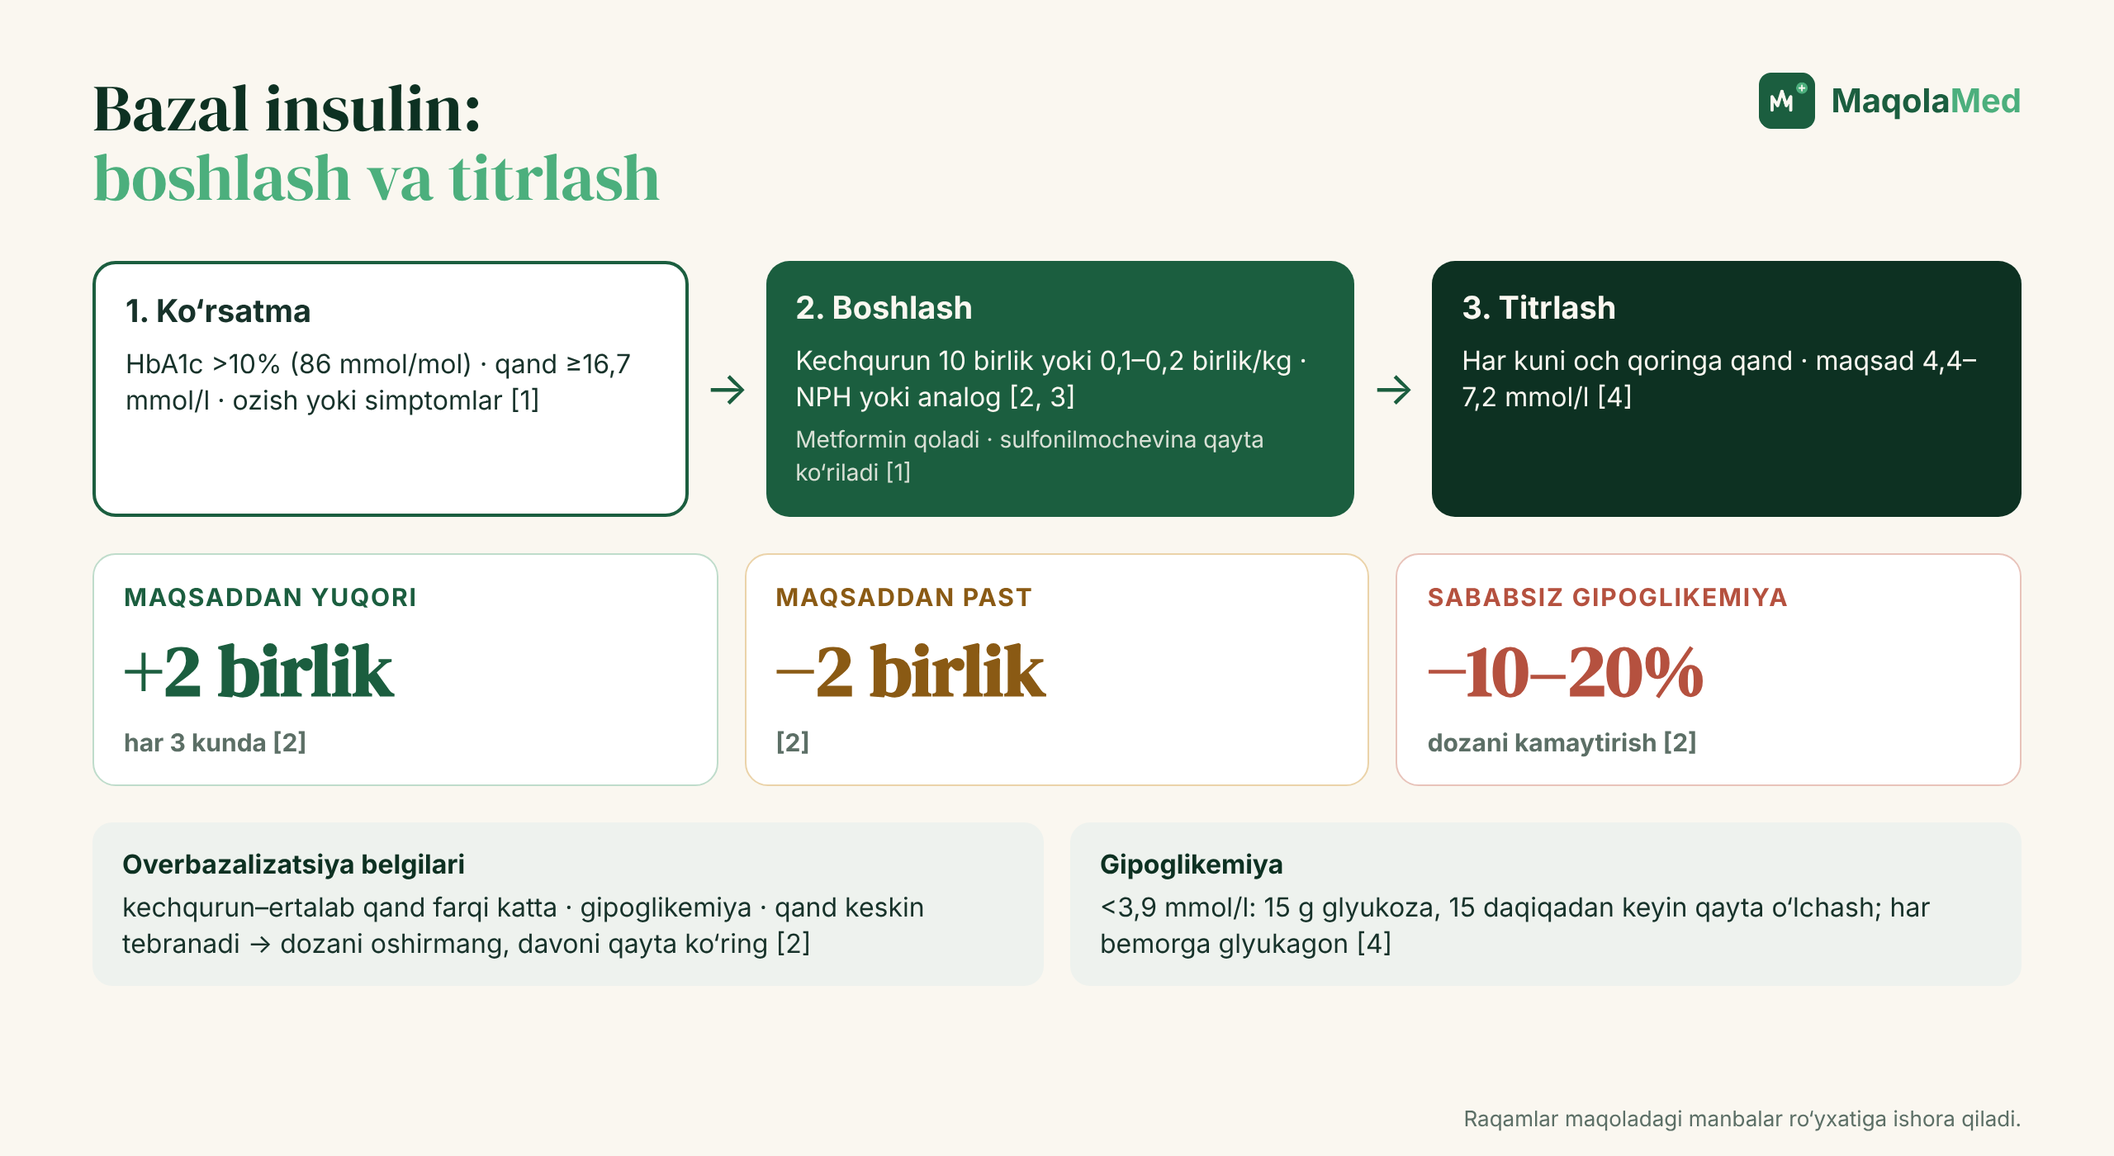
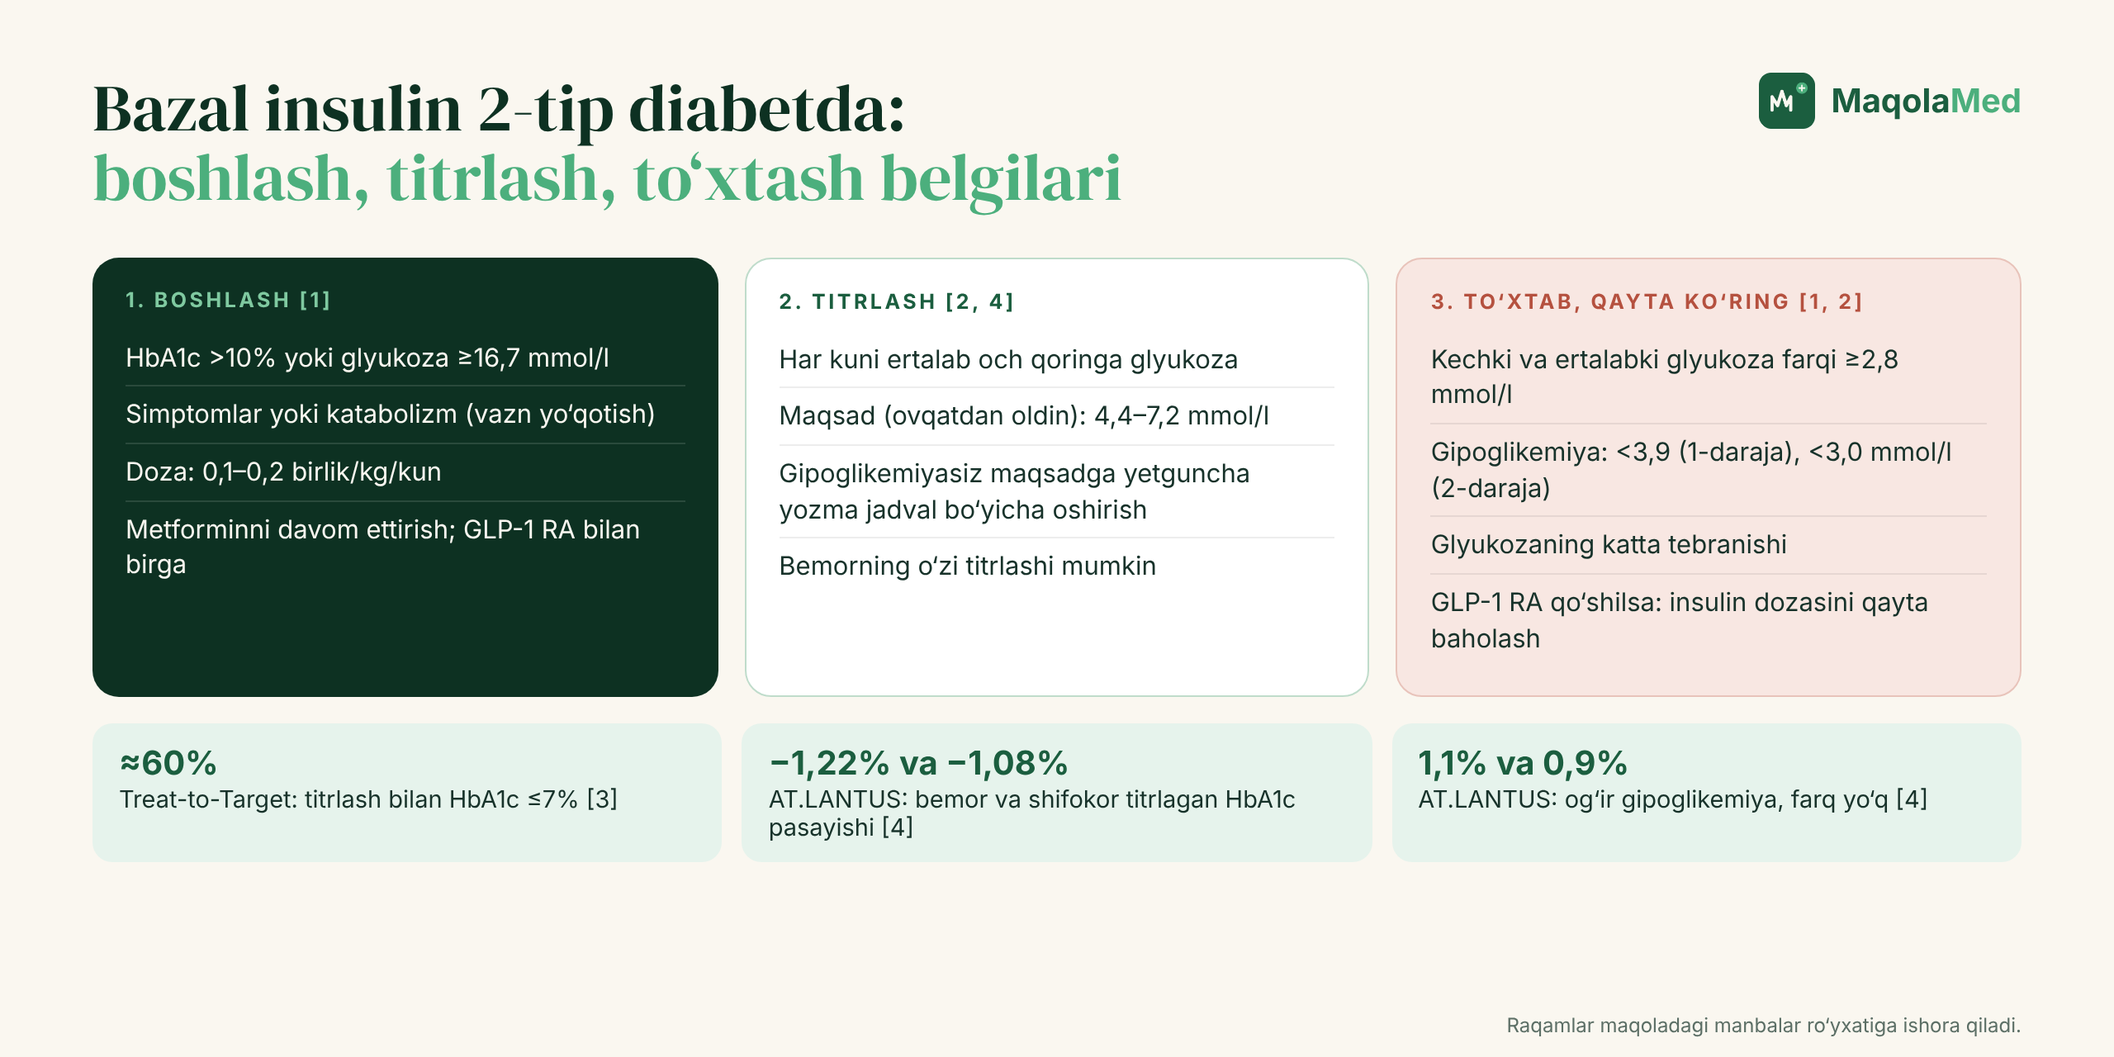
24-dekabr maqolasi qayta yozildi (v2, humanizer): bazal insulin — muqovalar, 1 rasm

diff --git a/_manba/2026-12-24/muqova-instagram-4x5.html b/_manba/2026-12-24/muqova-instagram-4x5.html
@@ -1,0 +1,87 @@
+<!doctype html>
+<html lang="uz">
+<head><base href="file:///home/claude/maqolamed-rasmlar/_shablon/">
+<meta charset="utf-8">
+<style>
+@font-face{font-family:"DM Serif Display";src:url("fonts/dm-serif-display-latin-400-normal.woff2") format("woff2");}
+@font-face{font-family:"DM Serif Display";src:url("fonts/dm-serif-display-latin-ext-400-normal.woff2") format("woff2");unicode-range:U+0100-024F,U+1E00-1EFF;}
+:root{
+  --emerald:#1B5E3F; --deep:#0D3122; --cream:#FAF7F0; --mint:#7FC9A0; --green:#4CAF7D;
+}
+*{margin:0;padding:0;box-sizing:border-box}
+html,body{width:1280px;height:720px;overflow:hidden;background:var(--deep)}
+.cover{position:relative;width:1280px;height:720px;overflow:hidden;font-family:"Inter",sans-serif;color:var(--cream);
+  background:
+    radial-gradient(900px 600px at 78% 40%, rgba(76,175,125,.22), transparent 60%),
+    radial-gradient(700px 500px at 0% 100%, rgba(13,49,34,.9), transparent 70%),
+    linear-gradient(135deg,#123F2C 0%, #1B5E3F 55%, #164D34 100%);}
+.grid{position:absolute;inset:0;background-image:
+    linear-gradient(rgba(250,247,240,.035) 1px,transparent 1px),
+    linear-gradient(90deg,rgba(250,247,240,.035) 1px,transparent 1px);
+  background-size:40px 40px;}
+.ekg{position:absolute;left:0;top:300px;width:1280px;height:200px;opacity:.16}
+.left{position:absolute;left:64px;top:52px;width:690px}
+.brand{display:flex;align-items:center;gap:28px}
+.brand img{height:62px;display:block}
+.tag{display:flex;align-items:center;gap:14px;font-size:13px;letter-spacing:.32em;color:rgba(250,247,240,.72);font-weight:500}
+.tag i{width:4px;height:4px;border-radius:50%;background:var(--mint);display:inline-block}
+.tag .line{width:90px;height:1px;background:rgba(250,247,240,.35)}
+.kicker{margin-top:54px;display:inline-flex;align-items:center;gap:10px;font-size:15px;font-weight:600;letter-spacing:.14em;text-transform:uppercase;color:var(--mint)}
+.kicker span{display:inline-block;width:28px;height:2px;background:var(--mint)}
+h1{margin-top:16px;font-family:"DM Serif Display",serif;font-weight:400;font-size:78px;line-height:.98;letter-spacing:-.01em;color:var(--cream)}
+h1 em{font-style:normal;color:var(--mint)}
+.sub{margin-top:22px;font-size:21px;color:rgba(250,247,240,.82);font-weight:400}
+.points{position:absolute;left:64px;bottom:50px;display:flex;gap:0}
+.pt{width:172px;padding-right:18px;display:flex;flex-direction:column;align-items:flex-start;gap:12px}
+.pt + .pt{padding-left:22px;border-left:1px solid rgba(250,247,240,.18)}
+.ic{width:52px;height:52px;border-radius:50%;border:1.6px solid rgba(250,247,240,.75);display:grid;place-items:center}
+.ic svg{width:26px;height:26px;stroke:var(--cream);fill:none;stroke-width:1.7;stroke-linecap:round;stroke-linejoin:round}
+.pt p{font-size:15px;line-height:1.3;color:rgba(250,247,240,.92);font-weight:500}
+.card{position:absolute;right:56px;top:96px;width:400px;border-radius:22px;padding:28px 30px 26px;
+  background:linear-gradient(160deg,rgba(13,49,34,.82),rgba(13,49,34,.62));
+  border:1px solid rgba(127,201,160,.35);box-shadow:0 30px 60px rgba(0,0,0,.35)}
+.card .ch{display:flex;justify-content:space-between;align-items:center}
+.card .lbl{font-size:12px;letter-spacing:.24em;font-weight:600;color:var(--mint)}
+.card .pill{font-size:12px;font-weight:600;padding:5px 10px;border-radius:999px;background:rgba(127,201,160,.16);color:var(--mint)}
+.card h3{margin-top:14px;font-size:22px;font-weight:600}
+.card h3 small{display:block;margin-top:4px;font-size:14px;font-weight:400;color:rgba(250,247,240,.65)}
+.rows{margin-top:18px;border-top:1px solid rgba(250,247,240,.14)}
+.row{display:flex;justify-content:space-between;padding:9px 0;border-bottom:1px solid rgba(250,247,240,.10);font-size:16px}
+.row span:first-child{color:rgba(250,247,240,.68)}
+.row span:last-child{font-weight:600;font-variant-numeric:tabular-nums}
+.row .ok{color:var(--mint)}
+.quote{margin-top:18px;font-family:"DM Serif Display",serif;font-size:21px;line-height:1.25;color:var(--cream)}
+.ask{margin-top:16px;display:flex;align-items:center;justify-content:space-between;padding:13px 16px;border-radius:12px;background:var(--green);color:#0D3122;font-weight:700;font-size:17px}
+.ask svg{width:22px;height:22px;stroke:#0D3122;fill:none;stroke-width:2.2;stroke-linecap:round;stroke-linejoin:round}
+
+html,body{width:1080px;height:1350px}
+.cover{width:1080px;height:1350px}
+.ekg{top:525px;width:1080px}
+.left{left:72px;top:64px;width:940px}
+.brand img{height:72px}
+h1{font-size:96px;margin-top:18px}
+.kicker{margin-top:56px;font-size:17px}
+.sub{font-size:24px}
+.card{left:72px;right:72px;top:auto;bottom:250px;width:auto;padding:30px 34px}
+.rows{display:grid;grid-template-columns:1fr 1fr;column-gap:40px}
+.quote{font-size:24px}
+.points{left:72px;right:72px;bottom:60px}
+.pt{width:auto;flex:1}
+.pt p{font-size:17px}
+
+
+
+h1{font-size:90px}
+</style>
+</head>
+<body><div class="cover"><div class="grid"></div>
+<svg class="ekg" viewBox="0 0 1280 200" preserveAspectRatio="none"><polyline fill="none" stroke="#7FC9A0" stroke-width="3" stroke-linejoin="round" stroke-linecap="round" points="0,120 640,120 670,120 690,98 710,120 750,120 770,40 795,175 820,120 880,120 905,102 930,120 1280,120"/></svg>
+<div class="left"><div class="brand"><img src="logo_dark_bg.png" alt="MaqolaMed"></div>
+<div class="tag" style="margin-top:22px"><span>ILM</span><i></i><span>AMALIYOT</span><i></i><span>ODAM UCHUN</span><span class="line"></span></div>
+<div class="kicker"><span></span>Dori fokusda · Endokrinologiya</div>
+<h1>Bazal insulin:<br>qanday boshlab,<br><em>qanday titrlaymiz?</em></h1>
+<div class="sub">Insulinni boshlash yarim ish, qolgani titrlash.</div></div>
+<div class="points"><div class="pt"><div class="ic"><svg viewBox="0 0 24 24"><path d="M18 3l3 3"/><path d="M19.5 4.5l-9 9"/><path d="M14 6l4 4"/><path d="M10.5 13.5l-4 4"/><path d="M6.5 17.5L4 20"/><path d="M8 11l5 5"/></svg></div><p>Insulinni qachon boshlaymiz?</p></div><div class="pt"><div class="ic"><svg viewBox="0 0 24 24"><path d="M4 20V4"/><path d="M4 20h16"/><path d="M8 16l4-5 3 3 5-7"/></svg></div><p>Dozani qanday oshiramiz?</p></div><div class="pt"><div class="ic"><svg viewBox="0 0 24 24"><path d="M12 3c3 4 6 7.5 6 11a6 6 0 0 1-12 0c0-3.5 3-7 6-11z"/></svg></div><p>NPH yoki analog?</p></div><div class="pt"><div class="ic"><svg viewBox="0 0 24 24"><path d="M12 3l9.5 17h-19z"/><path d="M12 10v4"/><path d="M12 17v.5"/></svg></div><p>Qachon to‘xtab qayta ko‘ramiz?</p></div></div>
+<div class="card"><div class="ch"><span class="lbl">DORI KARTOCHKASI</span><span class="pill">Bazal insulin</span></div>
+<h3>Boshlash va titrlash<small>ADA 2026 · Treat-to-Target · Cochrane 2020</small></h3><div class="rows"><div class="row"><span>Ko‘rsatma</span><span class="">HbA1c &gt;10%</span></div><div class="row"><span>Boshlang‘ich doza</span><span class="ok">0,1–0,2 birlik/kg</span></div><div class="row"><span>Maqsad (ovqatdan oldin)</span><span class="ok">4,4–7,2 mmol/l</span></div><div class="row"><span>Overbazalizatsiya</span><span class="">farq ≥2,8 mmol/l</span></div><div class="row"><span>Analog va NPH</span><span class="">HbA1c bir xil</span></div><div class="row"><span>Og‘ir gipoglikemiya</span><span class="ok">analogda kamroq</span></div></div><div class="quote">«Insulinga o‘tsam, undan chiqolmayman»</div><div class="ask">Siz nima qilardingiz?<svg viewBox="0 0 24 24"><path d="M5 12h14"/><path d="M13 6l6 6-6 6"/></svg></div></div>
+</div></body></html>

diff --git a/_manba/2026-12-24/muqova-16x9.html b/_manba/2026-12-24/muqova-16x9.html
@@ -1,0 +1,70 @@
+<!doctype html>
+<html lang="uz">
+<head><base href="file:///home/claude/maqolamed-rasmlar/_shablon/">
+<meta charset="utf-8">
+<style>
+@font-face{font-family:"DM Serif Display";src:url("fonts/dm-serif-display-latin-400-normal.woff2") format("woff2");}
+@font-face{font-family:"DM Serif Display";src:url("fonts/dm-serif-display-latin-ext-400-normal.woff2") format("woff2");unicode-range:U+0100-024F,U+1E00-1EFF;}
+:root{
+  --emerald:#1B5E3F; --deep:#0D3122; --cream:#FAF7F0; --mint:#7FC9A0; --green:#4CAF7D;
+}
+*{margin:0;padding:0;box-sizing:border-box}
+html,body{width:1280px;height:720px;overflow:hidden;background:var(--deep)}
+.cover{position:relative;width:1280px;height:720px;overflow:hidden;font-family:"Inter",sans-serif;color:var(--cream);
+  background:
+    radial-gradient(900px 600px at 78% 40%, rgba(76,175,125,.22), transparent 60%),
+    radial-gradient(700px 500px at 0% 100%, rgba(13,49,34,.9), transparent 70%),
+    linear-gradient(135deg,#123F2C 0%, #1B5E3F 55%, #164D34 100%);}
+.grid{position:absolute;inset:0;background-image:
+    linear-gradient(rgba(250,247,240,.035) 1px,transparent 1px),
+    linear-gradient(90deg,rgba(250,247,240,.035) 1px,transparent 1px);
+  background-size:40px 40px;}
+.ekg{position:absolute;left:0;top:300px;width:1280px;height:200px;opacity:.16}
+.left{position:absolute;left:64px;top:52px;width:690px}
+.brand{display:flex;align-items:center;gap:28px}
+.brand img{height:62px;display:block}
+.tag{display:flex;align-items:center;gap:14px;font-size:13px;letter-spacing:.32em;color:rgba(250,247,240,.72);font-weight:500}
+.tag i{width:4px;height:4px;border-radius:50%;background:var(--mint);display:inline-block}
+.tag .line{width:90px;height:1px;background:rgba(250,247,240,.35)}
+.kicker{margin-top:54px;display:inline-flex;align-items:center;gap:10px;font-size:15px;font-weight:600;letter-spacing:.14em;text-transform:uppercase;color:var(--mint)}
+.kicker span{display:inline-block;width:28px;height:2px;background:var(--mint)}
+h1{margin-top:16px;font-family:"DM Serif Display",serif;font-weight:400;font-size:78px;line-height:.98;letter-spacing:-.01em;color:var(--cream)}
+h1 em{font-style:normal;color:var(--mint)}
+.sub{margin-top:22px;font-size:21px;color:rgba(250,247,240,.82);font-weight:400}
+.points{position:absolute;left:64px;bottom:50px;display:flex;gap:0}
+.pt{width:172px;padding-right:18px;display:flex;flex-direction:column;align-items:flex-start;gap:12px}
+.pt + .pt{padding-left:22px;border-left:1px solid rgba(250,247,240,.18)}
+.ic{width:52px;height:52px;border-radius:50%;border:1.6px solid rgba(250,247,240,.75);display:grid;place-items:center}
+.ic svg{width:26px;height:26px;stroke:var(--cream);fill:none;stroke-width:1.7;stroke-linecap:round;stroke-linejoin:round}
+.pt p{font-size:15px;line-height:1.3;color:rgba(250,247,240,.92);font-weight:500}
+.card{position:absolute;right:56px;top:96px;width:400px;border-radius:22px;padding:28px 30px 26px;
+  background:linear-gradient(160deg,rgba(13,49,34,.82),rgba(13,49,34,.62));
+  border:1px solid rgba(127,201,160,.35);box-shadow:0 30px 60px rgba(0,0,0,.35)}
+.card .ch{display:flex;justify-content:space-between;align-items:center}
+.card .lbl{font-size:12px;letter-spacing:.24em;font-weight:600;color:var(--mint)}
+.card .pill{font-size:12px;font-weight:600;padding:5px 10px;border-radius:999px;background:rgba(127,201,160,.16);color:var(--mint)}
+.card h3{margin-top:14px;font-size:22px;font-weight:600}
+.card h3 small{display:block;margin-top:4px;font-size:14px;font-weight:400;color:rgba(250,247,240,.65)}
+.rows{margin-top:18px;border-top:1px solid rgba(250,247,240,.14)}
+.row{display:flex;justify-content:space-between;padding:9px 0;border-bottom:1px solid rgba(250,247,240,.10);font-size:16px}
+.row span:first-child{color:rgba(250,247,240,.68)}
+.row span:last-child{font-weight:600;font-variant-numeric:tabular-nums}
+.row .ok{color:var(--mint)}
+.quote{margin-top:18px;font-family:"DM Serif Display",serif;font-size:21px;line-height:1.25;color:var(--cream)}
+.ask{margin-top:16px;display:flex;align-items:center;justify-content:space-between;padding:13px 16px;border-radius:12px;background:var(--green);color:#0D3122;font-weight:700;font-size:17px}
+.ask svg{width:22px;height:22px;stroke:#0D3122;fill:none;stroke-width:2.2;stroke-linecap:round;stroke-linejoin:round}
+
+h1{font-size:66px}
+</style>
+</head>
+<body><div class="cover"><div class="grid"></div>
+<svg class="ekg" viewBox="0 0 1280 200" preserveAspectRatio="none"><polyline fill="none" stroke="#7FC9A0" stroke-width="3" stroke-linejoin="round" stroke-linecap="round" points="0,120 640,120 670,120 690,98 710,120 750,120 770,40 795,175 820,120 880,120 905,102 930,120 1280,120"/></svg>
+<div class="left"><div class="brand"><img src="logo_dark_bg.png" alt="MaqolaMed"></div>
+<div class="tag" style="margin-top:22px"><span>ILM</span><i></i><span>AMALIYOT</span><i></i><span>ODAM UCHUN</span><span class="line"></span></div>
+<div class="kicker"><span></span>Dori fokusda · Endokrinologiya</div>
+<h1>Bazal insulin:<br>qanday boshlab,<br><em>qanday titrlaymiz?</em></h1>
+<div class="sub">Insulinni boshlash yarim ish, qolgani titrlash.</div></div>
+<div class="points"><div class="pt"><div class="ic"><svg viewBox="0 0 24 24"><path d="M18 3l3 3"/><path d="M19.5 4.5l-9 9"/><path d="M14 6l4 4"/><path d="M10.5 13.5l-4 4"/><path d="M6.5 17.5L4 20"/><path d="M8 11l5 5"/></svg></div><p>Insulinni qachon boshlaymiz?</p></div><div class="pt"><div class="ic"><svg viewBox="0 0 24 24"><path d="M4 20V4"/><path d="M4 20h16"/><path d="M8 16l4-5 3 3 5-7"/></svg></div><p>Dozani qanday oshiramiz?</p></div><div class="pt"><div class="ic"><svg viewBox="0 0 24 24"><path d="M12 3c3 4 6 7.5 6 11a6 6 0 0 1-12 0c0-3.5 3-7 6-11z"/></svg></div><p>NPH yoki analog?</p></div><div class="pt"><div class="ic"><svg viewBox="0 0 24 24"><path d="M12 3l9.5 17h-19z"/><path d="M12 10v4"/><path d="M12 17v.5"/></svg></div><p>Qachon to‘xtab qayta ko‘ramiz?</p></div></div>
+<div class="card"><div class="ch"><span class="lbl">DORI KARTOCHKASI</span><span class="pill">Bazal insulin</span></div>
+<h3>Boshlash va titrlash<small>ADA 2026 · Treat-to-Target · Cochrane 2020</small></h3><div class="rows"><div class="row"><span>Ko‘rsatma</span><span class="">HbA1c &gt;10%</span></div><div class="row"><span>Boshlang‘ich doza</span><span class="ok">0,1–0,2 birlik/kg</span></div><div class="row"><span>Maqsad (ovqatdan oldin)</span><span class="ok">4,4–7,2 mmol/l</span></div><div class="row"><span>Overbazalizatsiya</span><span class="">farq ≥2,8 mmol/l</span></div><div class="row"><span>Analog va NPH</span><span class="">HbA1c bir xil</span></div><div class="row"><span>Og‘ir gipoglikemiya</span><span class="ok">analogda kamroq</span></div></div><div class="quote">«Insulinga o‘tsam, undan chiqolmayman»</div><div class="ask">Siz nima qilardingiz?<svg viewBox="0 0 24 24"><path d="M5 12h14"/><path d="M13 6l6 6-6 6"/></svg></div></div>
+</div></body></html>

diff --git a/_manba/2026-12-24/1-rasm.html b/_manba/2026-12-24/1-rasm.html
@@ -1,0 +1,51 @@
+<!doctype html><html lang="uz"><head><meta charset="utf-8"><base href="file:///home/claude/maqolamed-rasmlar/_shablon/">
+<style>
+@font-face{font-family:"DM Serif Display";src:url("fonts/dm-serif-display-latin-400-normal.woff2") format("woff2");}
+@font-face{font-family:"DM Serif Display";src:url("fonts/dm-serif-display-latin-ext-400-normal.woff2") format("woff2");unicode-range:U+0100-024F,U+1E00-1EFF;}
+:root{--emerald:#1B5E3F;--deep:#0D3122;--cream:#FAF7F0;--mint:#7FC9A0;--green:#4CAF7D;--ink:#17322A;--muted:#5C6F66;--amber:#C98A2E;--amberbg:#FBF1E1;--red:#B5513F;--redbg:#F8E7E2;--tint:#E6F3EC}
+*{margin:0;padding:0;box-sizing:border-box}
+html,body{width:1280px;height:var(--H,900px);background:var(--cream);overflow:hidden}
+.fig{position:relative;width:1280px;height:var(--H,900px);padding:44px 56px;font-family:"Inter",sans-serif;color:var(--ink)}
+.top{display:flex;justify-content:space-between;align-items:flex-start;margin-bottom:28px}
+h1{font-family:"DM Serif Display",serif;font-weight:400;font-size:40px;line-height:1.05;color:var(--deep)}
+h1 em{font-style:normal;color:var(--green)}
+.brand{display:flex;align-items:center;gap:10px;font-weight:700;font-size:20px;color:var(--emerald)}
+.brand img{height:34px}.brand b{color:var(--green);font-weight:700}
+table{width:100%;border-collapse:separate;border-spacing:0 8px;font-size:16px;line-height:1.35}
+th{text-align:left;font-size:12px;letter-spacing:.14em;text-transform:uppercase;color:var(--muted);padding:0 18px 2px;font-weight:700}
+td{background:#fff;padding:13px 18px;vertical-align:middle}
+td:first-child{border-radius:12px 0 0 12px;font-weight:700;color:var(--deep)}
+td:last-child{border-radius:0 12px 12px 0}
+td.new{background:var(--tint)} td.same{background:#F1EEE6;color:var(--muted)}
+td.warn{background:var(--redbg)}
+.badge{display:inline-block;font-size:11px;font-weight:700;letter-spacing:.08em;padding:4px 9px;border-radius:999px;margin-right:8px;vertical-align:1px}
+.b-new{background:var(--emerald);color:var(--cream)} .b-same{background:#E2DED3;color:var(--muted)} .b-red{background:var(--red);color:#fff} .b-amb{background:var(--amber);color:#fff}
+.muted{color:var(--muted)}
+.node{border-radius:14px;padding:14px 18px;font-size:16px;line-height:1.38}
+.node b{display:block;font-size:17px;margin-bottom:3px}
+.n-dark{background:var(--emerald);color:var(--cream)} .n-deep{background:var(--deep);color:var(--cream)}
+.n-white{background:#fff;border:1.5px solid #BFDCCB} .n-amb{background:#fff;border:1.5px solid #EBD3A9} .n-red{background:var(--redbg);border:1.5px solid #E8C3BA}
+.tagc{display:inline-block;font-size:12px;font-weight:700;letter-spacing:.12em;text-transform:uppercase;padding:6px 12px;border-radius:999px}
+.t-g{background:#DDEFE5;color:var(--emerald)} .t-a{background:var(--amberbg);color:#8A5A14} .t-r{background:var(--redbg);color:var(--red)}
+.note{position:absolute;left:56px;right:56px;bottom:40px;padding:14px 18px;border-radius:12px;background:#EEF2EE;font-size:15px;line-height:1.4}
+.note b{color:var(--deep)}
+.src{position:absolute;right:56px;bottom:12px;font-size:12px;color:var(--muted)}
+.arrow{stroke:var(--emerald);stroke-width:2.2;fill:none}
+</style></head><body><style>:root{--H:640px}
+.cols{display:grid;grid-template-columns:repeat(3,1fr);gap:16px}
+.col{border-radius:16px;padding:18px 20px;font-size:15.5px;line-height:1.4}
+.col h2{font-size:12.5px;letter-spacing:.14em;text-transform:uppercase;margin-bottom:8px}
+.col ul{list-style:none}.col li{padding:6px 0;border-bottom:1px solid rgba(0,0,0,.07)}.col li:last-child{border-bottom:0}
+.c1{background:var(--deep);color:var(--cream)}.c1 h2{color:var(--mint)}.c1 li{border-color:rgba(255,255,255,.12)}
+.c2{background:#fff;border:1.5px solid #BFDCCB}.c2 h2{color:var(--emerald)}
+.c3{background:var(--redbg);border:1.5px solid #E8C3BA}.c3 h2{color:var(--red)}
+.kbar{margin-top:16px;display:grid;grid-template-columns:repeat(3,1fr);gap:12px}
+.k{border-radius:12px;padding:12px 16px;font-size:14.5px;background:#E6F3EC}.k b{display:block;font-size:20px;margin-bottom:2px;color:var(--emerald)}
+</style>
+<div class="fig"><div class="top"><h1>Bazal insulin 2-tip diabetda:<br><em>boshlash, titrlash, to‘xtash belgilari</em></h1><div class="brand"><img src="icon.png" alt=""><span>Maqola<b>Med</b></span></div></div>
+<div class="cols">
+<div class="col c1"><h2>1. Boshlash [1]</h2><ul><li>HbA1c &gt;10% yoki glyukoza ≥16,7 mmol/l</li><li>Simptomlar yoki katabolizm (vazn yo‘qotish)</li><li>Doza: 0,1–0,2 birlik/kg/kun</li><li>Metforminni davom ettirish; GLP-1 RA bilan birga</li></ul></div>
+<div class="col c2"><h2>2. Titrlash [2, 4]</h2><ul><li>Har kuni ertalab och qoringa glyukoza</li><li>Maqsad (ovqatdan oldin): 4,4–7,2 mmol/l</li><li>Gipoglikemiyasiz maqsadga yetguncha yozma jadval bo‘yicha oshirish</li><li>Bemorning o‘zi titrlashi mumkin</li></ul></div>
+<div class="col c3"><h2>3. To‘xtab, qayta ko‘ring [1, 2]</h2><ul><li>Kechki va ertalabki glyukoza farqi ≥2,8 mmol/l</li><li>Gipoglikemiya: &lt;3,9 (1-daraja), &lt;3,0 mmol/l (2-daraja)</li><li>Glyukozaning katta tebranishi</li><li>GLP-1 RA qo‘shilsa: insulin dozasini qayta baholash</li></ul></div></div>
+<div class="kbar"><div class="k"><b>≈60%</b>Treat-to-Target: titrlash bilan HbA1c ≤7% [3]</div><div class="k"><b>−1,22% va −1,08%</b>AT.LANTUS: bemor va shifokor titrlagan HbA1c pasayishi [4]</div><div class="k"><b>1,1% va 0,9%</b>AT.LANTUS: og‘ir gipoglikemiya, farq yo‘q [4]</div></div>
+<div class="src">Raqamlar maqoladagi manbalar ro‘yxatiga ishora qiladi.</div></div></body></html>
